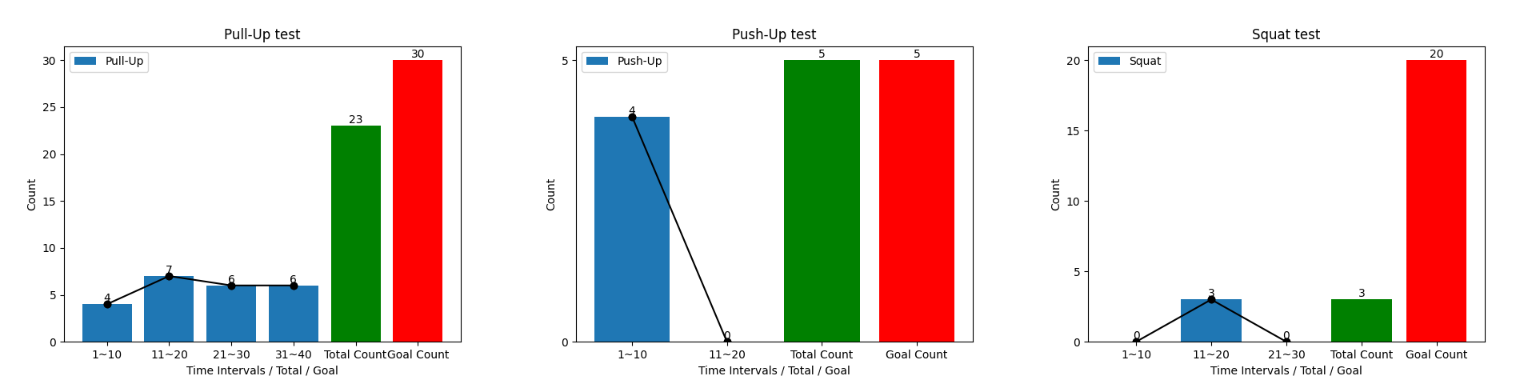
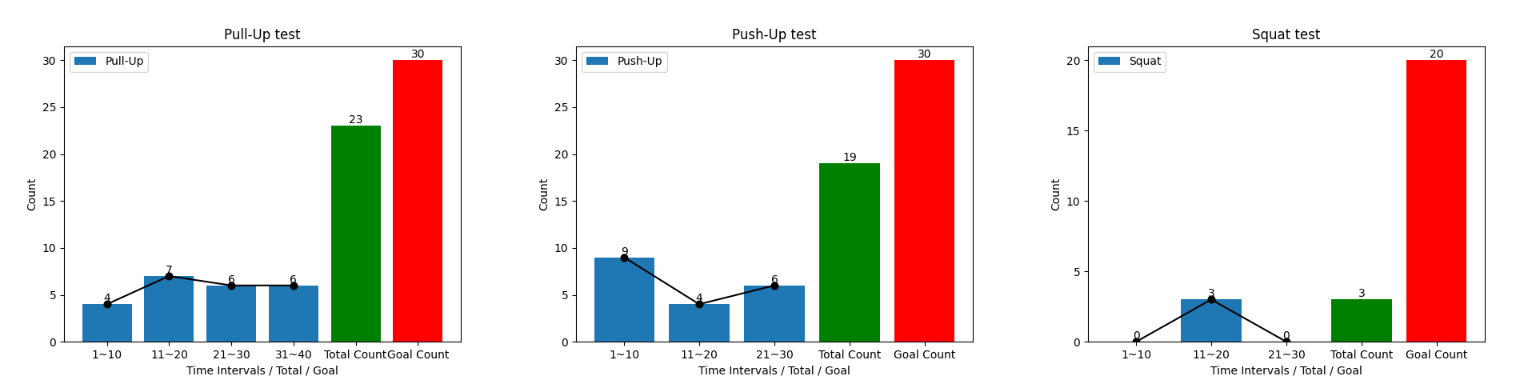
일별 테스트 그래프 함수 수정
일별 테스트 그래프에 현재 날짜를 입력받아 그래프를 새로 만들어 저장하게 함
인터페이스에서 함수를 실행 한 다음, 저장된 그래프를 출력하는 식으로 변경

Changed region(s): [[0.3438, 0.1562, 0.625, 0.9375], [0.5938, 0.125, 0.625, 0.1562]]

diff --git a/graph/test_day_show.py b/graph/test_day_show.py
@@ -1,12 +1,12 @@
 """
-테스트 기록 보기에서 원하는 날의 테스트기록을 opencv로 결합하여 다 출력
+테스트 기록 보기에서 원하는 날의 테스트기록을 opencv로 결합함
+출력은 하지않고 저장만하게 둠
 """
 import cv2
 import os
 
 
-def merge_images():
-    current_date = input("날짜를 입력하세요 (YYYY-MM-DD): ")
+def merge_images(current_date):
 
     image1_path = f'graph_pictures/test_graph/{current_date}_Pull-Up_test.png'
     image2_path = f'graph_pictures/test_graph/{current_date}_Push-Up_test.png'
@@ -35,10 +35,7 @@ def merge_images():
 
     merged_image = cv2.hconcat(resized_images)
 
-    cv2.imshow('Merged Images', merged_image)
-    cv2.waitKey(0)
-    cv2.destroyAllWindows()
-
     cv2.imwrite(output_path, merged_image)
 
-
+    cv2.waitKey(0)
+    cv2.destroyAllWindows()

diff --git a/Interface.py b/Interface.py
@@ -1,7 +1,7 @@
 import PySimpleGUI as sg
 import datetime
 from graph import day_count
-
+from graph import test_day_show
 class Interface:
     sg.theme('DarkAmber')
 
@@ -178,6 +178,7 @@ class Interface:
                                     selected_date = datetime.datetime.strptime(selected_date_str, "%Y-%m-%d").date()
 
                                     # day_count.plot_exercise_counts("exercise_record.csv", selected_date)
+                                    test_day_show.merge_images(selected_date)
                                     path = f"graph_pictures\\test_graph\\{selected_date}_Merged_Image.png"
                                     window["output_test"].update(filename=path)
 
